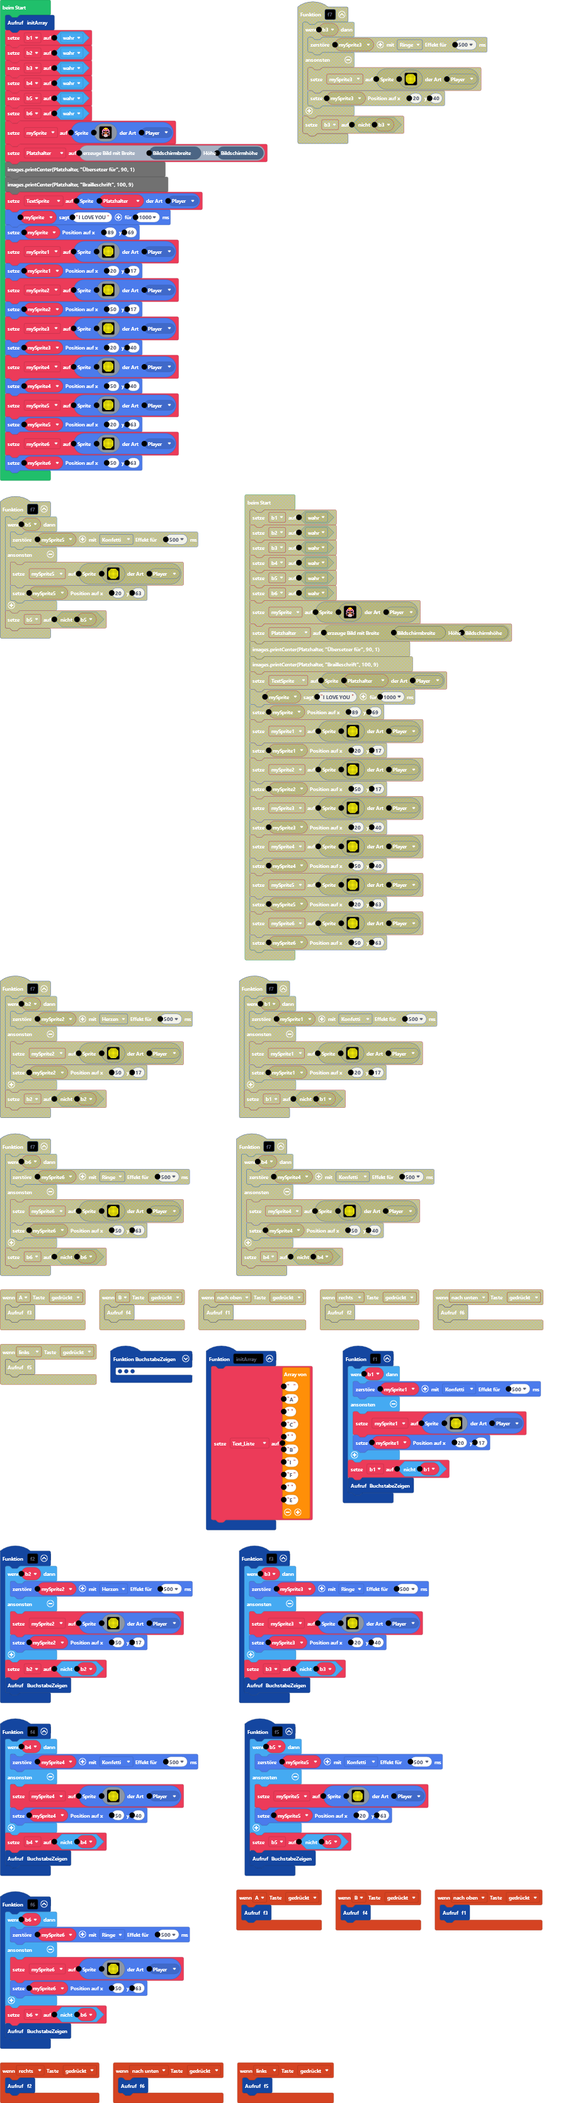
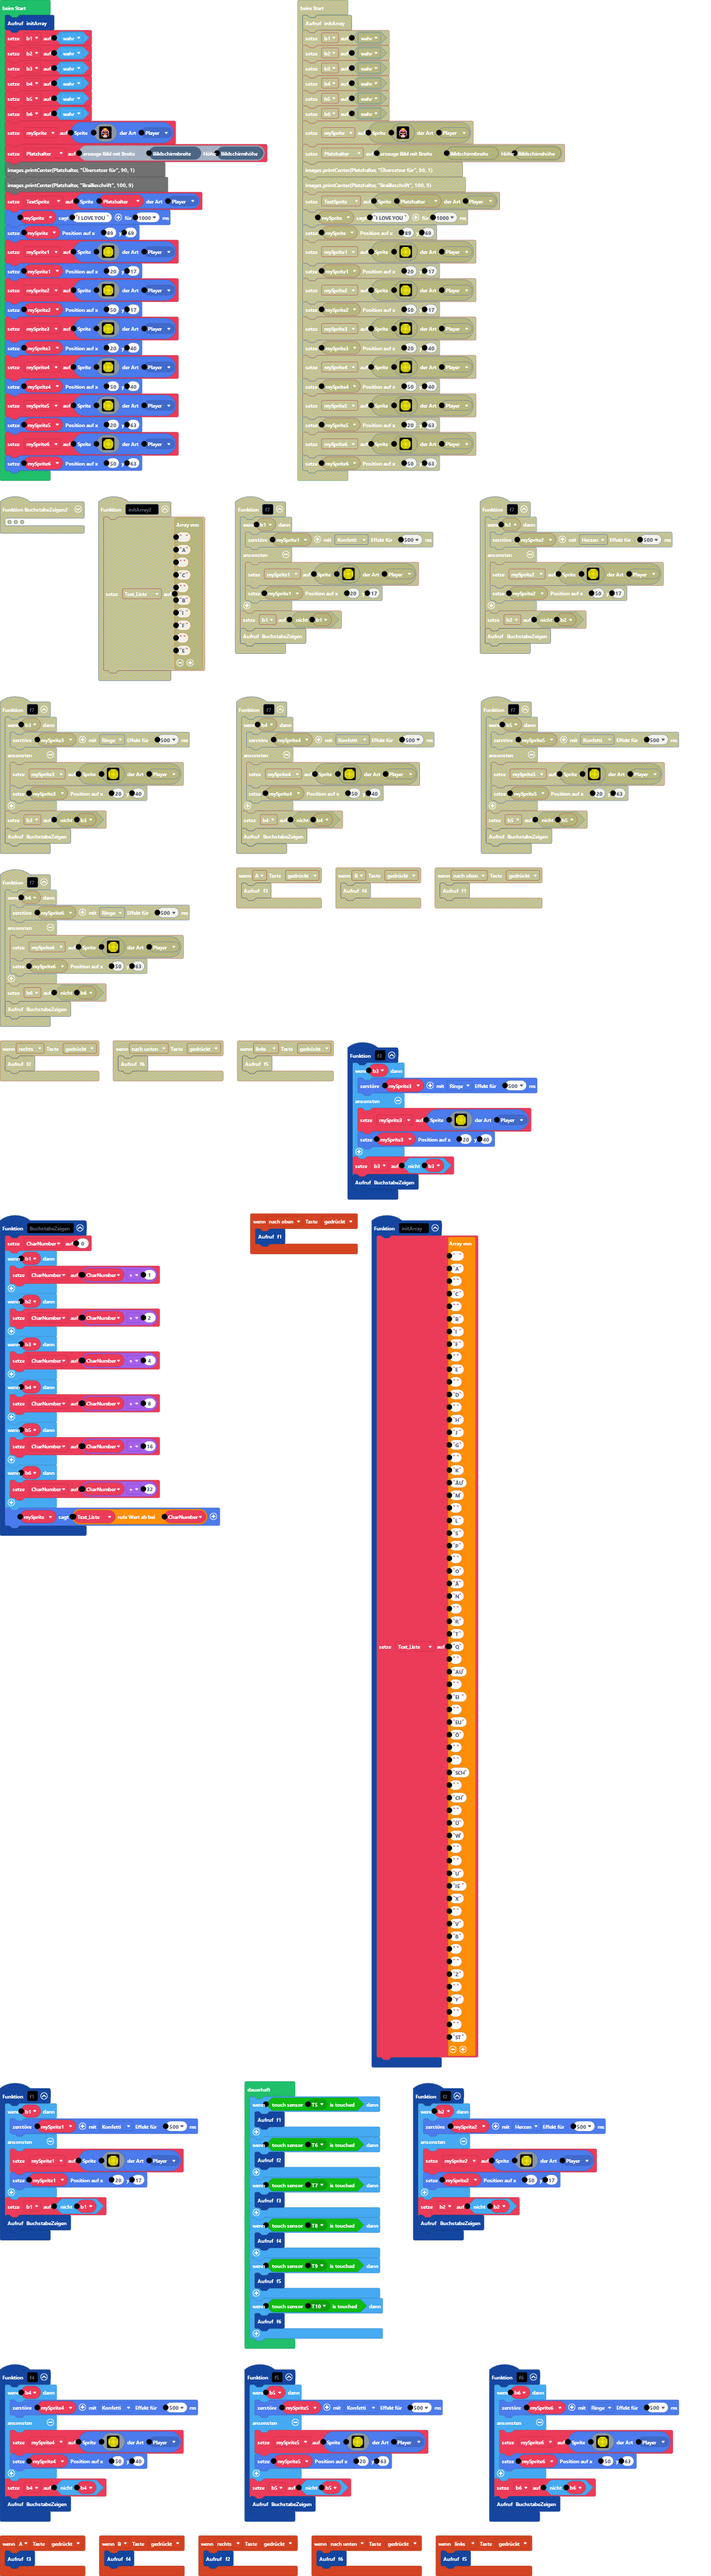
Aktualisiere main.blocks, main.ts

diff --git a/main.ts b/main.ts
@@ -1,5 +1,5 @@
 function initArray () {
-    Text_Liste = [" ", "A", "", "C", "", "B", "I", "F", "", "E"]
+    Text_Liste = [" ", "A", "", "C", "", "B", "I", "F", "", "E", "", "D", "", "H", "J", "G", "", "K", "ÄU", "M", "", "L", "S", "P", "", "O", "Ä", "N", "", "R", "T", "Q", "", "AU", "", "EI", "", "EU", "Ö", "", "", "SCH", "", "CH", "", "Ü", "W", "", "", "U", "IE", "X", "", "V", "ß", "", "", "Z", "", "Y", "", "", "ST"]
 }
 function f3 () {
     if (b3) {
@@ -375,3 +375,23 @@ mySprite6 = sprites.create(img`
 . . . . 5 5 5 5 5 5 5 5 5 . . . . 
 `, SpriteKind.Player)
 mySprite6.setPosition(50, 63)
+forever(function () {
+    if (makerbit.isTouched(makerbit.touchSensorIndex(TouchSensor.T5))) {
+        f1()
+    }
+    if (makerbit.isTouched(makerbit.touchSensorIndex(TouchSensor.T6))) {
+        f2()
+    }
+    if (makerbit.isTouched(makerbit.touchSensorIndex(TouchSensor.T7))) {
+        f3()
+    }
+    if (makerbit.isTouched(makerbit.touchSensorIndex(TouchSensor.T8))) {
+        f4()
+    }
+    if (makerbit.isTouched(makerbit.touchSensorIndex(TouchSensor.T9))) {
+        f5()
+    }
+    if (makerbit.isTouched(makerbit.touchSensorIndex(TouchSensor.T10))) {
+        f6()
+    }
+})
